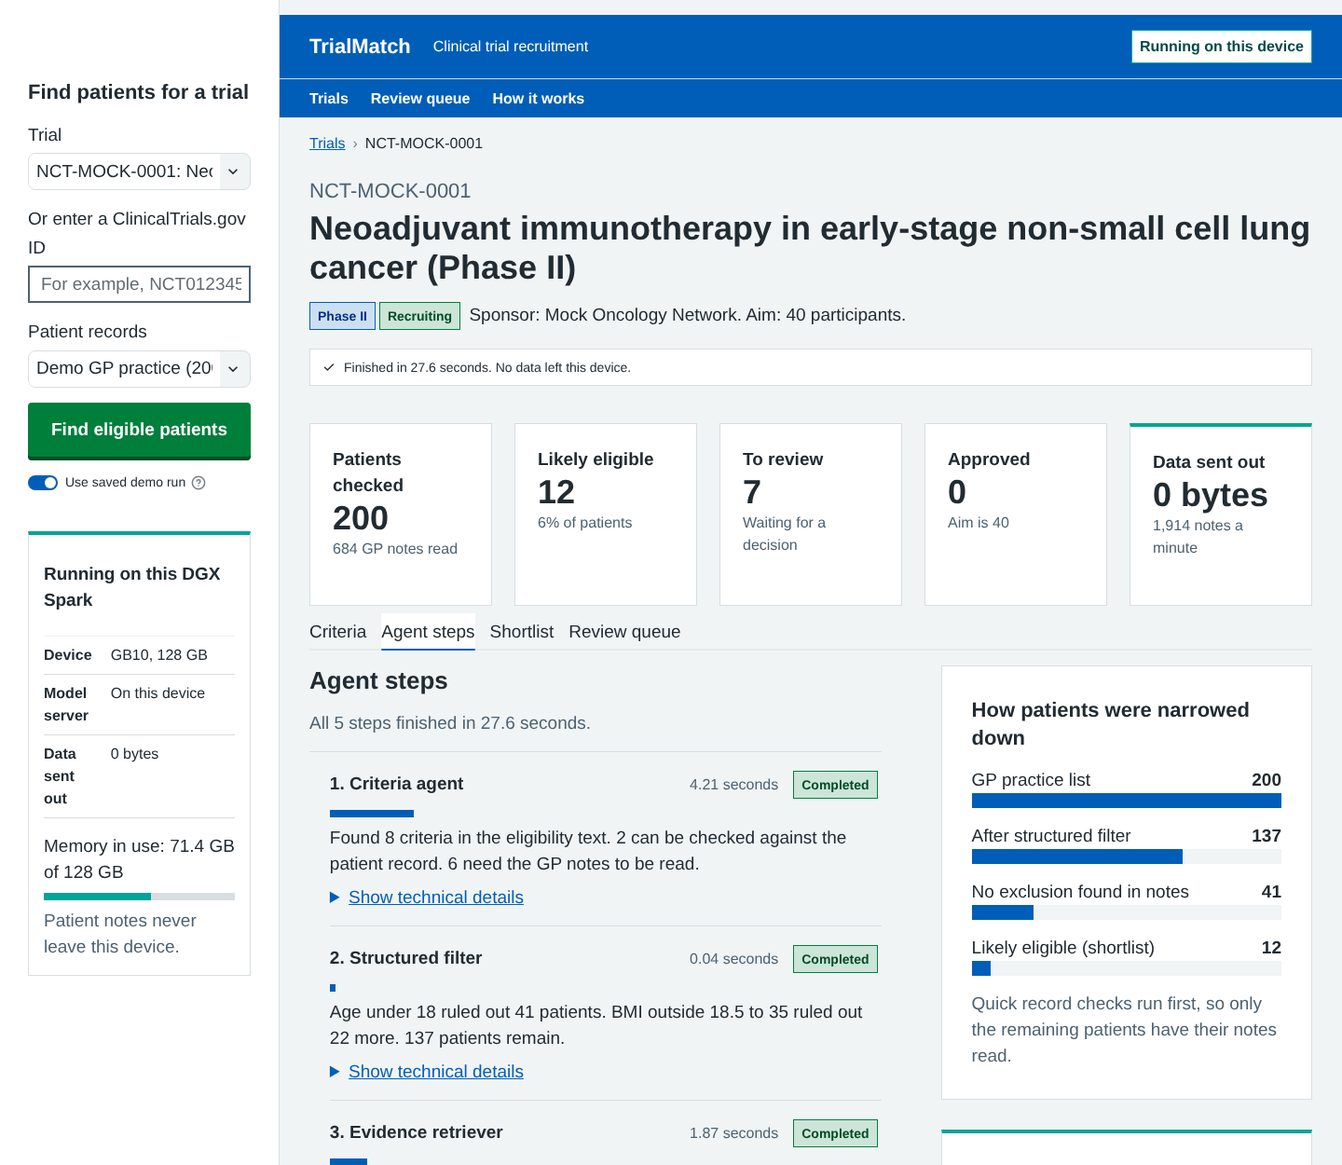
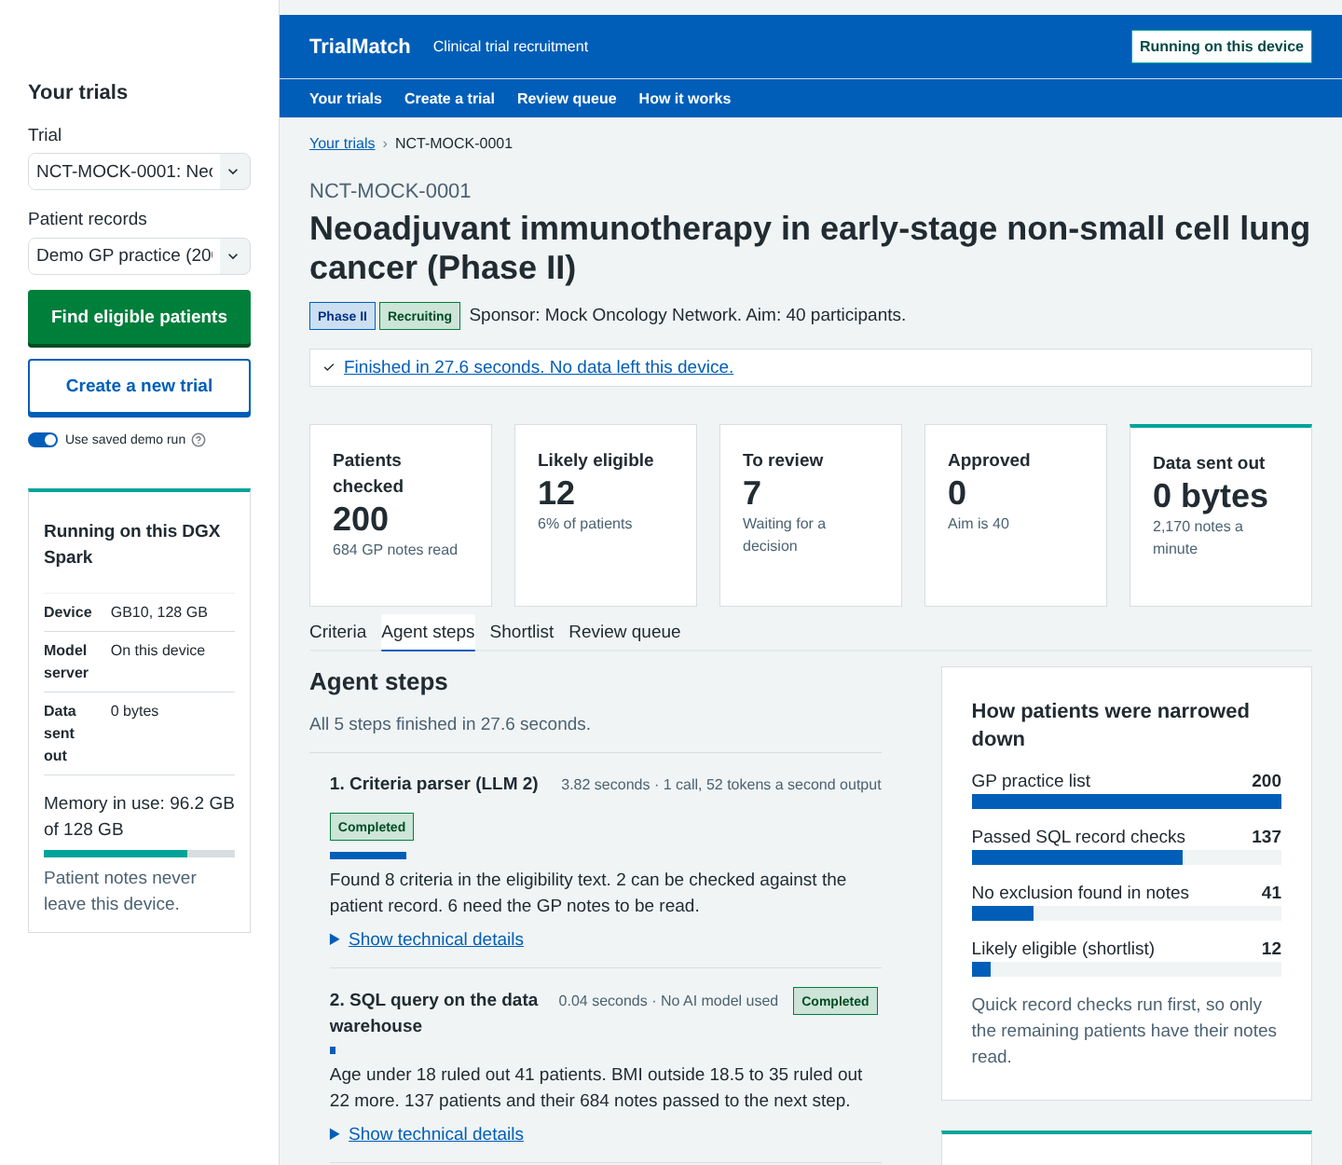
Add Create a trial page with free-text description, SQL panel, cascade trace and manifest download
Claude-Session: https://claude.ai/code/session_017TJ7tyAgR2GKwshJR7kPRf

diff --git a/app/app.py b/app/app.py
@@ -147,13 +147,30 @@ details.nhs-details code, .nhs-code{font-family:monospace; font-size:16px; backg
 *:focus-visible{outline:4px solid var(--focus) !important; outline-offset:0 !important; box-shadow:0 4px 0 var(--focus-text) !important;}
 
 /* Form fields */
-.stTextInput label p, .stSelectbox label p, .stRadio > label p, .stToggle label p{font-size:19px !important; color:var(--text) !important;}
+.stTextInput label p, .stNumberInput label p, .stSelectbox label p, .stRadio > label p, .stToggle label p{font-size:19px !important; color:var(--text) !important;}
 [data-baseweb="input"], [data-baseweb="select"] > div{border:2px solid var(--input-border) !important; border-radius:0 !important; background:var(--white) !important;}
 [data-baseweb="input"]:focus-within, [data-baseweb="select"] > div:focus-within{outline:4px solid var(--focus) !important; box-shadow:inset 0 0 0 2px var(--text) !important;}
 input{background:var(--white) !important; color:var(--text) !important; font-size:19px !important;}
 [data-baseweb="select"] div{font-size:19px !important; color:var(--text) !important;}
 .stRadio [role="radiogroup"] label{padding:8px 0 !important;}
 .stRadio [role="radiogroup"] label p{font-size:19px !important;}
+
+/* Labels, hints, textarea (NHS form patterns) */
+.nhs-label{display:block; font-size:19px; line-height:28px; font-weight:700; color:var(--text); margin:24px 0 4px;}
+.nhs-hint{font-size:19px; line-height:28px; color:var(--secondary); margin:0 0 8px;}
+.nhs-count{font-size:16px; color:var(--secondary); margin:4px 0 24px;}
+[data-baseweb="textarea"]{border:2px solid var(--input-border) !important; border-radius:0 !important; background:var(--white) !important;}
+[data-baseweb="textarea"]:focus-within{outline:4px solid var(--focus) !important; box-shadow:inset 0 0 0 2px var(--text) !important;}
+textarea{font-size:19px !important; line-height:28px !important; color:var(--text) !important; background:var(--white) !important;}
+.from mark{background:var(--pale-yellow); color:var(--text); padding:0 2px; box-shadow:0 2px 0 var(--warm-yellow);}
+.from sup{font-size:14px; font-weight:700; color:var(--dark-blue); margin-left:2px;}
+.nhs-warning ul{margin:0; padding-left:24px;} .nhs-warning li{font-size:19px; line-height:28px; margin-bottom:8px;}
+.nhs-warning h3{font-size:22px; line-height:30px; margin:0 0 8px; padding:0 !important;}
+.nhs-code{display:block; white-space:pre; padding:16px; border-left:4px solid var(--border); overflow-x:auto; font-size:15px; line-height:22px;}
+ol.nhs-steps{padding-left:24px; margin:0;} ol.nhs-steps li{font-size:19px; line-height:28px; margin-bottom:8px;}
+.stDownloadButton button{background:var(--white) !important; color:var(--sec-button) !important; border:2px solid var(--sec-button) !important; box-shadow:0 4px 0 var(--sec-button) !important; border-radius:4px !important; font-weight:700 !important;}
+.stDownloadButton button p{font-size:19px !important; font-weight:700 !important;}
+[data-testid="stExpander"] summary p{font-size:19px !important; color:var(--link); text-decoration:underline;}
 
 /* Tabs (NHS tabs pattern) */
 .stTabs [role="tab"] *{font-size:19px !important;}
@@ -216,18 +233,33 @@ def rule_text(c):
 ss = st.session_state
 ss.setdefault("ran", False)
 ss.setdefault("decisions", {})
+ss.setdefault("page", "trial")
+ss.setdefault("my_trials", [])
+ss.setdefault("draft", None)
 
-trials = data.get_trials()
+trials = ss.my_trials + data.get_trials()
 stats = data.STATS
 
 # ---------- Sidebar: search form ----------
 with st.sidebar:
-    md('<h2 class="nhs-heading-s" style="margin-top:8px">Find patients for a trial</h2>')
+    md('<h2 class="nhs-heading-s" style="margin-top:8px">Your trials</h2>')
     labels = [f"{t['id']}: {t['title']}" for t in trials]
-    trial = trials[labels.index(st.selectbox("Trial", labels))]
-    st.text_input("Or enter a ClinicalTrials.gov ID", placeholder="For example, NCT01234567")
+    if "pending_pick" in ss:
+        ss.trial_pick = ss.pop("pending_pick")
+    if ss.get("trial_pick") not in labels:
+        ss.trial_pick = labels[0]
+
+    def _picked():
+        ss.page = "trial"
+        ss.ran = False
+
+    trial = trials[labels.index(st.selectbox("Trial", labels, key="trial_pick", on_change=_picked))]
     st.selectbox("Patient records", ["Demo GP practice (200 synthetic patients)"])
-    go = st.button("Find eligible patients", type="primary", use_container_width=True)
+    go = st.button("Find eligible patients", type="primary", use_container_width=True, disabled=ss.page == "create")
+    if st.button("Create a new trial", use_container_width=True):
+        ss.page = "create"
+        ss.draft = None
+        st.rerun()
     st.toggle("Use saved demo run", value=True, help="Replays a run saved earlier, in case the live run is slow.")
     mem = stats["gpu_mem_gb"] / 128 * 100
     md('<div class="nhs-card nhs-card--device" style="margin-top:24px">'
@@ -244,13 +276,104 @@ with st.sidebar:
 md('<header class="nhs-header"><span class="nhs-header__service">TrialMatch</span>'
    '<span class="nhs-header__org">Clinical trial recruitment</span>'
    '<span class="nhs-header__status">Running on this device</span></header>'
-   '<nav class="nhs-header__nav"><span>Trials</span><span>Review queue</span><span>How it works</span></nav>')
+   '<nav class="nhs-header__nav"><span>Your trials</span><span>Create a trial</span><span>Review queue</span><span>How it works</span></nav>')
 
-md(f'<nav class="nhs-breadcrumb"><a href="#">Trials</a><span class="chev">›</span>{trial["id"]}</nav>'
+
+def footer():
+    md('<footer class="nhs-footer"><ul><li>How TrialMatch works</li><li>Data and privacy</li><li>Accessibility</li></ul>'
+       f'<p style="margin:0">Models run on {stats["host"]}. No patient data leaves this device. All patient data shown is synthetic. '
+       'TrialMatch supports recruiters. It does not decide who is eligible.</p></footer>')
+
+
+def highlight_description(text, crits):
+    out = html.escape(text)
+    for c in crits:
+        ph = html.escape(c["from"])
+        if ph in out:
+            out = out.replace(ph, f'<mark>{ph}</mark><sup>{c["id"]}</sup>', 1)
+    return out
+
+
+# ---------- Create a trial ----------
+if ss.page == "create":
+    md('<nav class="nhs-breadcrumb"><a href="#">Your trials</a><span class="chev">›</span>Create a trial</nav>'
+       '<div class="nhs-caption-l">New trial</div><h1 class="nhs-heading-l">Create a trial</h1>')
+    main, side = st.columns([2, 1], gap="large")
+    with side:
+        md('<div class="nhs-card nhs-card--device"><h2 class="nhs-heading-s">What happens next</h2><ol class="nhs-steps">'
+           '<li>The agent turns your description into a list of criteria.</li>'
+           '<li>You check each criterion and the assumptions it made.</li>'
+           '<li>You save the trial and TrialMatch searches your patients.</li>'
+           '<li>You review every patient before anyone is contacted.</li></ol>'
+           '<p class="nhs-body-s nhs-secondary" style="margin:16px 0 0">Everything you type stays on this device.</p></div>')
+    with main:
+        name = st.text_input("Trial name", value="Early lung cancer immunotherapy study")
+        source = st.radio("How do you want to add the criteria?", ["Describe who you need", "Import from ClinicalTrials.gov"])
+        if source == "Import from ClinicalTrials.gov":
+            st.text_input("ClinicalTrials.gov ID", placeholder="For example, NCT01234567",
+                          help="The ID starts with NCT followed by 8 numbers.")
+            text = data.TRIALS[0]["eligibility_text"]
+        else:
+            md('<label class="nhs-label">Describe who you need</label>'
+               '<p class="nhs-hint">Write it as you would to a colleague. Include age, conditions, treatments, '
+               'tests, and anything that would rule someone out.</p>')
+            text = st.text_area("Describe who you need", value=data.CREATE_EXAMPLE, height=200, label_visibility="collapsed")
+            md(f'<p class="nhs-count">You have used {len(text)} characters</p>')
+        target = st.number_input("How many participants do you need?", min_value=1, value=40, step=1)
+        if st.button("Turn into criteria", type="primary"):
+            ss.draft = {"name": name, "text": text, "target": int(target), "criteria": data.parse_description(text)}
+            st.rerun()
+
+        if ss.draft:
+            d = ss.draft
+            crits = d["criteria"]
+            md('<h2 class="nhs-heading-m" style="margin-top:32px">Check the criteria</h2>'
+               f'<p class="nhs-body">The agent found {len(crits)} criteria in your description. '
+               'The highlighted words show where each one came from.</p>'
+               f'<div class="nhs-inset from">{highlight_description(d["text"], crits)}</div>')
+            asm = [c for c in crits if c.get("assumption")]
+            if asm:
+                md('<div class="nhs-warning"><span class="nhs-warning__label">Important</span>'
+                   f'<h3>Check {len(asm)} assumptions</h3><ul>'
+                   + "".join(f'<li><strong>{c["id"]}:</strong> {html.escape(c["assumption"])}</li>' for c in asm)
+                   + '</ul></div>')
+            rows = "".join(
+                f'<tr><td><strong>{c["id"]}</strong></td><td>{html.escape(c["text"])}'
+                f'{"<br><span class=nhs-secondary style=font-size:16px>Rule: " + rule_text(c) + "</span>" if rule_text(c) else ""}</td>'
+                f'<td>{type_tag(c)}</td><td>{method_tag(c)}</td></tr>' for c in crits)
+            md('<table class="nhs-table" style="margin-top:32px"><caption>Criteria for this trial</caption>'
+               '<thead><tr><th>ID</th><th>Criterion</th><th>Type</th><th>Checked using</th></tr></thead>'
+               f'<tbody>{rows}</tbody></table>')
+            with st.expander("Change or add criteria"):
+                import pandas as pd
+                df = pd.DataFrame([{"ID": c["id"], "Criterion": c["text"],
+                                    "Type": c["type"].capitalize(),
+                                    "Checked using": "Patient record" if c["kind"] == "structured" else "GP notes"} for c in crits])
+                st.data_editor(df, num_rows="dynamic", hide_index=True, use_container_width=True, column_config={
+                    "Type": st.column_config.SelectboxColumn("Type", options=["Inclusion", "Exclusion"]),
+                    "Checked using": st.column_config.SelectboxColumn("Checked using", options=["Patient record", "GP notes"])})
+            b1, b2, _ = st.columns([1.4, 1, 1])
+            if b1.button("Save trial and find patients", type="primary", use_container_width=True):
+                new = {"id": f"LOCAL-{len(ss.my_trials) + 1:04d}", "title": d["name"], "sponsor": "Created on this device",
+                       "phase": "Not registered", "target": d["target"], "eligibility_text": d["text"], "local": True}
+                ss.my_trials.insert(0, new)
+                ss.pending_pick = f"{new['id']}: {new['title']}"
+                ss.page, ss.ran, ss.autorun, ss.draft = "trial", False, True, None
+                st.rerun()
+            if b2.button("Start again", use_container_width=True):
+                ss.draft = None
+                st.rerun()
+    footer()
+    st.stop()
+
+if ss.pop("autorun", False):
+    go = True
+
+md(f'<nav class="nhs-breadcrumb"><a href="#">Your trials</a><span class="chev">›</span>{trial["id"]}</nav>'
    f'<div class="nhs-caption-l">{trial["id"]}</div>'
    f'<h1 class="nhs-heading-l">{html.escape(trial["title"])}</h1>'
    f'<p class="nhs-body">{tag(trial["phase"], "tag-blue")}{tag("Recruiting", "tag-green")} '
-   f'Sponsor: {trial["sponsor"]}. Aim: {trial["target"]} participants.</p>')
+   f'{"Created on this device" if trial.get("local") else "Sponsor: " + trial["sponsor"]}. Aim: {trial["target"]} participants.</p>')
 
 criteria = data.get_criteria(trial["id"])
 run = data.get_run(trial["id"])
@@ -283,9 +406,14 @@ tab_crit, tab_trace, tab_list, tab_review = st.tabs(["Criteria", "Agent steps", 
 with tab_crit:
     left, right = st.columns([1, 1.4], gap="large")
     with left:
-        md('<h2 class="nhs-heading-m">Eligibility text</h2>'
-           '<div class="nhs-inset">' + "".join(f"<p>{html.escape(p)}</p>" for p in trial["eligibility_text"].split("\n")) + '</div>'
-           '<p class="nhs-body-s nhs-secondary">From ClinicalTrials.gov. Saved on this device so the demo works offline.</p>')
+        if trial.get("local"):
+            md('<h2 class="nhs-heading-m">Your description</h2>'
+               f'<div class="nhs-inset from">{highlight_description(trial["eligibility_text"], data.parse_description(trial["eligibility_text"]))}</div>'
+               '<p class="nhs-body-s nhs-secondary">Written by you when you created this trial.</p>')
+        else:
+            md('<h2 class="nhs-heading-m">Eligibility text</h2>'
+               '<div class="nhs-inset">' + "".join(f"<p>{html.escape(p)}</p>" for p in trial["eligibility_text"].split("\n")) + '</div>'
+               '<p class="nhs-body-s nhs-secondary">From ClinicalTrials.gov. Saved on this device so the demo works offline.</p>')
     with right:
         rows = "".join(
             f'<tr><td><strong>{c["id"]}</strong></td><td>{html.escape(c["text"])}'
@@ -309,7 +437,7 @@ with tab_trace:
             for s in run["trace"]:
                 model = f'<code>{s["model"]}</code>' if s["model"] else "none (no AI model used)"
                 items += (f'<li><div class="row"><span class="name">{s["step"]}. {s["agent"]}</span>'
-                          f'<span class="time">{s["ms"]/1000:.2f} seconds</span>{tag("Completed", "tag-green")}</div>'
+                          f'<span class="time">{s["ms"]/1000:.2f} seconds · {s["tokens"]}</span>{tag("Completed", "tag-green")}</div>'
                           f'<div class="bar"><i style="width:{max(s["ms"]/total*100, 1):.1f}%"></i></div>'
                           f'<p class="nhs-body" style="margin:0">{html.escape(s["detail"])}</p>'
                           f'<details class="nhs-details"><summary>Show technical details</summary><div class="nhs-details__text">'
@@ -323,8 +451,16 @@ with tab_trace:
             md(f'<div class="nhs-card"><h2 class="nhs-heading-s">How patients were narrowed down</h2><div class="funnel">{fr}</div>'
                '<p class="nhs-body-s nhs-secondary" style="margin:0">Quick record checks run first, so only the remaining patients have their notes read.</p></div>')
             md('<div class="nhs-card nhs-card--device"><h2 class="nhs-heading-s">Models on this device</h2><table class="nhs-summary" style="margin:0">'
-               '<tr><th>Reading criteria</th><td>Llama 3.3 70B</td></tr><tr><th>Reading notes</th><td>Nemotron Nano 9B</td></tr>'
-               '<tr><th>Finding passages</th><td>bge-small</td></tr><tr><th>Server</th><td>vLLM, local only</td></tr></table></div>')
+               '<tr><th>LLM 2: criteria and shortlist</th><td>gpt-oss-120b (mixture of experts)</td></tr>'
+               '<tr><th>LLM 1: screening notes</th><td>Nemotron Nano 9B v2</td></tr>'
+               '<tr><th>Data warehouse</th><td>DuckDB, read only</td></tr><tr><th>Server</th><td>vLLM, local only</td></tr></table></div>')
+        sqlf = "".join(f'<tr><td>{html.escape(l)}</td><td class="num">{n}</td></tr>' for l, n in run["sql_funnel"])
+        md('<div class="nhs-card"><h2 class="nhs-heading-s">SQL query sent to the data warehouse</h2>'
+           '<p class="nhs-body">The criteria that can be checked against the patient record become a read-only, '
+           'parameterised query. The AI model does not write SQL.</p>'
+           f'<code class="nhs-code">{html.escape(run["sql"])}</code>'
+           f'<table class="nhs-table" style="margin-top:24px"><caption>Patients left after each check</caption>'
+           f'<thead><tr><th>Check</th><th class="num">Patients</th></tr></thead><tbody>{sqlf}</tbody></table></div>')
 
 # ---------- 3. Shortlist ----------
 with tab_list:
@@ -359,6 +495,18 @@ with tab_list:
            '<span class="marks"><span class="m-unk">?</span></span> not known, needs checking &nbsp; '
            '<span class="marks"><span class="m-exc">✕</span></span> exclusion found</p>'
            '<div class="nhs-inset">TrialMatch helps recruiters find patients. A recruiter must check and approve every patient before anyone is contacted.</div>')
+        import json
+        manifest = {"trial": trial["id"], "generated_on": "this device", "patients": [
+            {"patient_id": r["patient_id"], "score": r["score"], "excluded": bool(r.get("excluded")),
+             "decision": ss.decisions.get(r["patient_id"], "to review"), "reason": r["explanation"],
+             "evidence": {k: {"status": v["status"], "source": v["source"], "quote": v["quote"]} for k, v in r["criteria"].items()}}
+            for r in results]}
+        d1, d2, _ = st.columns([1, 1, 2])
+        d1.download_button("Download shortlist (CSV)", "patient_id,score,decision\n" + "\n".join(
+            f'{p["patient_id"]},{p["score"]},{p["decision"]}' for p in manifest["patients"] if not p["excluded"]),
+            f"{trial['id']}-shortlist.csv", use_container_width=True)
+        d2.download_button("Download manifest (JSON)", json.dumps(manifest, indent=2), f"{trial['id']}-manifest.json",
+                           use_container_width=True)
 
 # ---------- 4. Review queue ----------
 with tab_review:
@@ -421,6 +569,4 @@ with tab_review:
                    f'<h3 class="nhs-heading-xs">{cid}: {html.escape(c["text"])}</h3>'
                    f'<div>{type_tag(c)}{result}<span class="nhs-body-s nhs-secondary">Confidence {ev["confidence"]*100:.0f}%</span></div>{body}</div>')
 
-md('<footer class="nhs-footer"><ul><li>How TrialMatch works</li><li>Data and privacy</li><li>Accessibility</li></ul>'
-   f'<p style="margin:0">Models run on {stats["host"]}. No patient data leaves this device. All patient data shown is synthetic. '
-   'TrialMatch supports recruiters. It does not decide who is eligible.</p></footer>')
+footer()

diff --git a/app/mock_data.py b/app/mock_data.py
@@ -53,34 +53,78 @@ CRITERIA = {
 }
 
 TRACE = [
-    {"step": 1, "agent": "Criteria agent", "tool": "llm.parse_criteria", "model": "Llama-3.3-70B (FP8)", "ms": 4210,
+    {"step": 1, "agent": "Criteria parser (LLM 2)", "tool": "llm2.parse_criteria", "model": "gpt-oss-120b", "ms": 3820,
+     "tokens": "1 call, 52 tokens a second output",
      "detail": "Found 8 criteria in the eligibility text. 2 can be checked against the patient record. 6 need the GP notes to be read."},
-    {"step": 2, "agent": "Structured filter", "tool": "pandas.query", "model": None, "ms": 38,
-     "detail": "Age under 18 ruled out 41 patients. BMI outside 18.5 to 35 ruled out 22 more. 137 patients remain."},
-    {"step": 3, "agent": "Evidence retriever", "tool": "embed.search(top_k=3)", "model": "bge-small", "ms": 1870,
-     "detail": "Indexed 684 GP notes. Found the 3 most relevant passages for each patient and criterion (2,466 passages)."},
-    {"step": 4, "agent": "Notes judge", "tool": "llm.judge (async x32)", "model": "Nemotron Nano 9B v2", "ms": 21450,
-     "detail": "Made 822 decisions: 214 met, 497 not met, 111 unknown. 3 answers without an exact quote from a note were changed to unknown."},
-    {"step": 5, "agent": "Ranker", "tool": "rank.score", "model": None, "ms": 12,
-     "detail": "Ruled out 96 patients with an exclusion in their notes. 12 of the remaining 41 are likely eligible."},
+    {"step": 2, "agent": "SQL query on the data warehouse", "tool": "duckdb (read only)", "model": None, "ms": 41,
+     "tokens": "No AI model used",
+     "detail": "Age under 18 ruled out 41 patients. BMI outside 18.5 to 35 ruled out 22 more. 137 patients and their 684 notes passed to the next step."},
+    {"step": 3, "agent": "Notes screening (LLM 1)", "tool": "llm1.screen (32 at a time)", "model": "Nemotron Nano 9B v2", "ms": 18900,
+     "tokens": "41,200 tokens a second input (prefill)",
+     "detail": "Read every note for 137 patients. Made 822 decisions: 214 met, 497 not met, 111 not known. Ruled out 96 patients with an exclusion. 41 remain."},
+    {"step": 4, "agent": "Shortlist review (LLM 2)", "tool": "llm2.finalise", "model": "gpt-oss-120b", "ms": 4630,
+     "tokens": "48 tokens a second output (decode)",
+     "detail": "Reviewed the 41 remaining patients. Ranked 12 as likely eligible and wrote the reason and quotes for each."},
+    {"step": 5, "agent": "Validation", "tool": "validate.quotes_and_records", "model": None, "ms": 210,
+     "tokens": "No AI model used",
+     "detail": "Checked 1,233 quotes against the original notes and every record value against the warehouse. 3 quotes were not found word for word, so those answers were changed to not known. 0 unchecked quotes reached you."},
 ]
+
+SQL = """SELECT p.patient_id, p.age, p.sex, p.bmi
+FROM patients AS p
+WHERE p.age >= ?            -- C1: 18
+  AND p.bmi BETWEEN ? AND ? -- C2: 18.5, 35
+  AND p.practice_id = ?     -- demo practice
+ORDER BY p.patient_id;"""
+
+SQL_FUNNEL = [("All patients at the practice", 200), ("C1: age 18 or over", 159), ("C2: BMI 18.5 to 35", 137)]
 
 FUNNEL = [
     ("GP practice list", 200),
-    ("After structured filter", 137),
+    ("Passed SQL record checks", 137),
     ("No exclusion found in notes", 41),
     ("Likely eligible (shortlist)", 12),
 ]
 
 STATS = {
-    "model": "Nemotron Nano 9B v2 + Llama-3.3-70B",
+    "model": "gpt-oss-120b + Nemotron Nano 9B v2",
     "host": "DGX Spark (GB10, 128 GB)",
     "endpoint": "http://localhost:8000/v1",
     "bytes_off_device": 0,
-    "notes_per_min": 1914,
-    "gpu_mem_gb": 71.4,
+    "notes_per_min": 2170,
+    "gpu_mem_gb": 96.2,
     "runtime_s": 27.6,
 }
+
+# ---------- Create a trial from free text ----------
+CREATE_EXAMPLE = (
+    "I need adults with early non-small cell lung cancer (stage 1 to 3A) who are still fully active or nearly so, "
+    "and who have seen their GP in the last year. BMI between 18.5 and 35. Please leave out anyone who has had chemo "
+    "or radiotherapy for their lung cancer, anyone treated for an autoimmune condition in the last 2 years, "
+    "and anyone who is pregnant or planning a pregnancy."
+)
+
+# Criteria agent output for CREATE_EXAMPLE. "from" is the phrase in the description each criterion came from.
+_PARSED_FROM = {
+    "C1": ("adults", "Taken 'adults' to mean age 18 or over."),
+    "C2": ("BMI between 18.5 and 35", None),
+    "C3": ("early non-small cell lung cancer (stage 1 to 3A)", None),
+    "C4": ("still fully active or nearly so", "Taken 'fully active or nearly so' to mean ECOG performance status 0 or 1."),
+    "C5": ("seen their GP in the last year", "Taken 'the last year' to mean the 12 months before today."),
+    "C6": ("treated for an autoimmune condition in the last 2 years", "Taken 'treated' to mean systemic treatment, such as steroids or immunosuppressants. Creams and thyroid replacement alone do not count."),
+    "C7": ("had chemo or radiotherapy for their lung cancer", None),
+    "C8": ("pregnant or planning a pregnancy", None),
+}
+
+
+def parse_description(text):
+    """Mock of the criteria agent on free text. Real version: LLM 2 with guided JSON output."""
+    out = []
+    for c in CRITERIA["NCT-MOCK-0001"]:
+        phrase, assumption = _PARSED_FROM[c["id"]]
+        out.append({**c, "from": phrase, "assumption": assumption})
+    return out
+
 
 # Status per criterion: MET / NOT_MET / UNKNOWN. Structured criteria cite the record field, free text cites a note.
 def _s(field, value):
@@ -180,4 +224,4 @@ def get_criteria(trial_id):
 
 
 def get_run(trial_id):
-    return {"trace": TRACE, "funnel": FUNNEL, "stats": STATS, "results": RESULTS}
+    return {"trace": TRACE, "funnel": FUNNEL, "stats": STATS, "results": RESULTS, "sql": SQL, "sql_funnel": SQL_FUNNEL}

diff --git a/app/README.md b/app/README.md
@@ -5,7 +5,7 @@ pip install -r app/requirements.txt
 streamlit run app/app.py
 ```
 
-Runs entirely on mock data in `app/mock_data.py`. Its three functions (`get_trials`, `get_criteria`, `get_run`)
+Runs entirely on mock data in `app/mock_data.py`. `parse_description(text)` is the seam for the criteria parser on free text (Create a trial page); `get_run()` also returns `sql` and `sql_funnel` for the SQL panel. Its three functions (`get_trials`, `get_criteria`, `get_run`)
 are the seam for the real pipeline: return the same shapes and the UI keeps working.
 
 Screens (tabs): parsed criteria, live agent trace + funnel, ranked shortlist, recruiter review with
